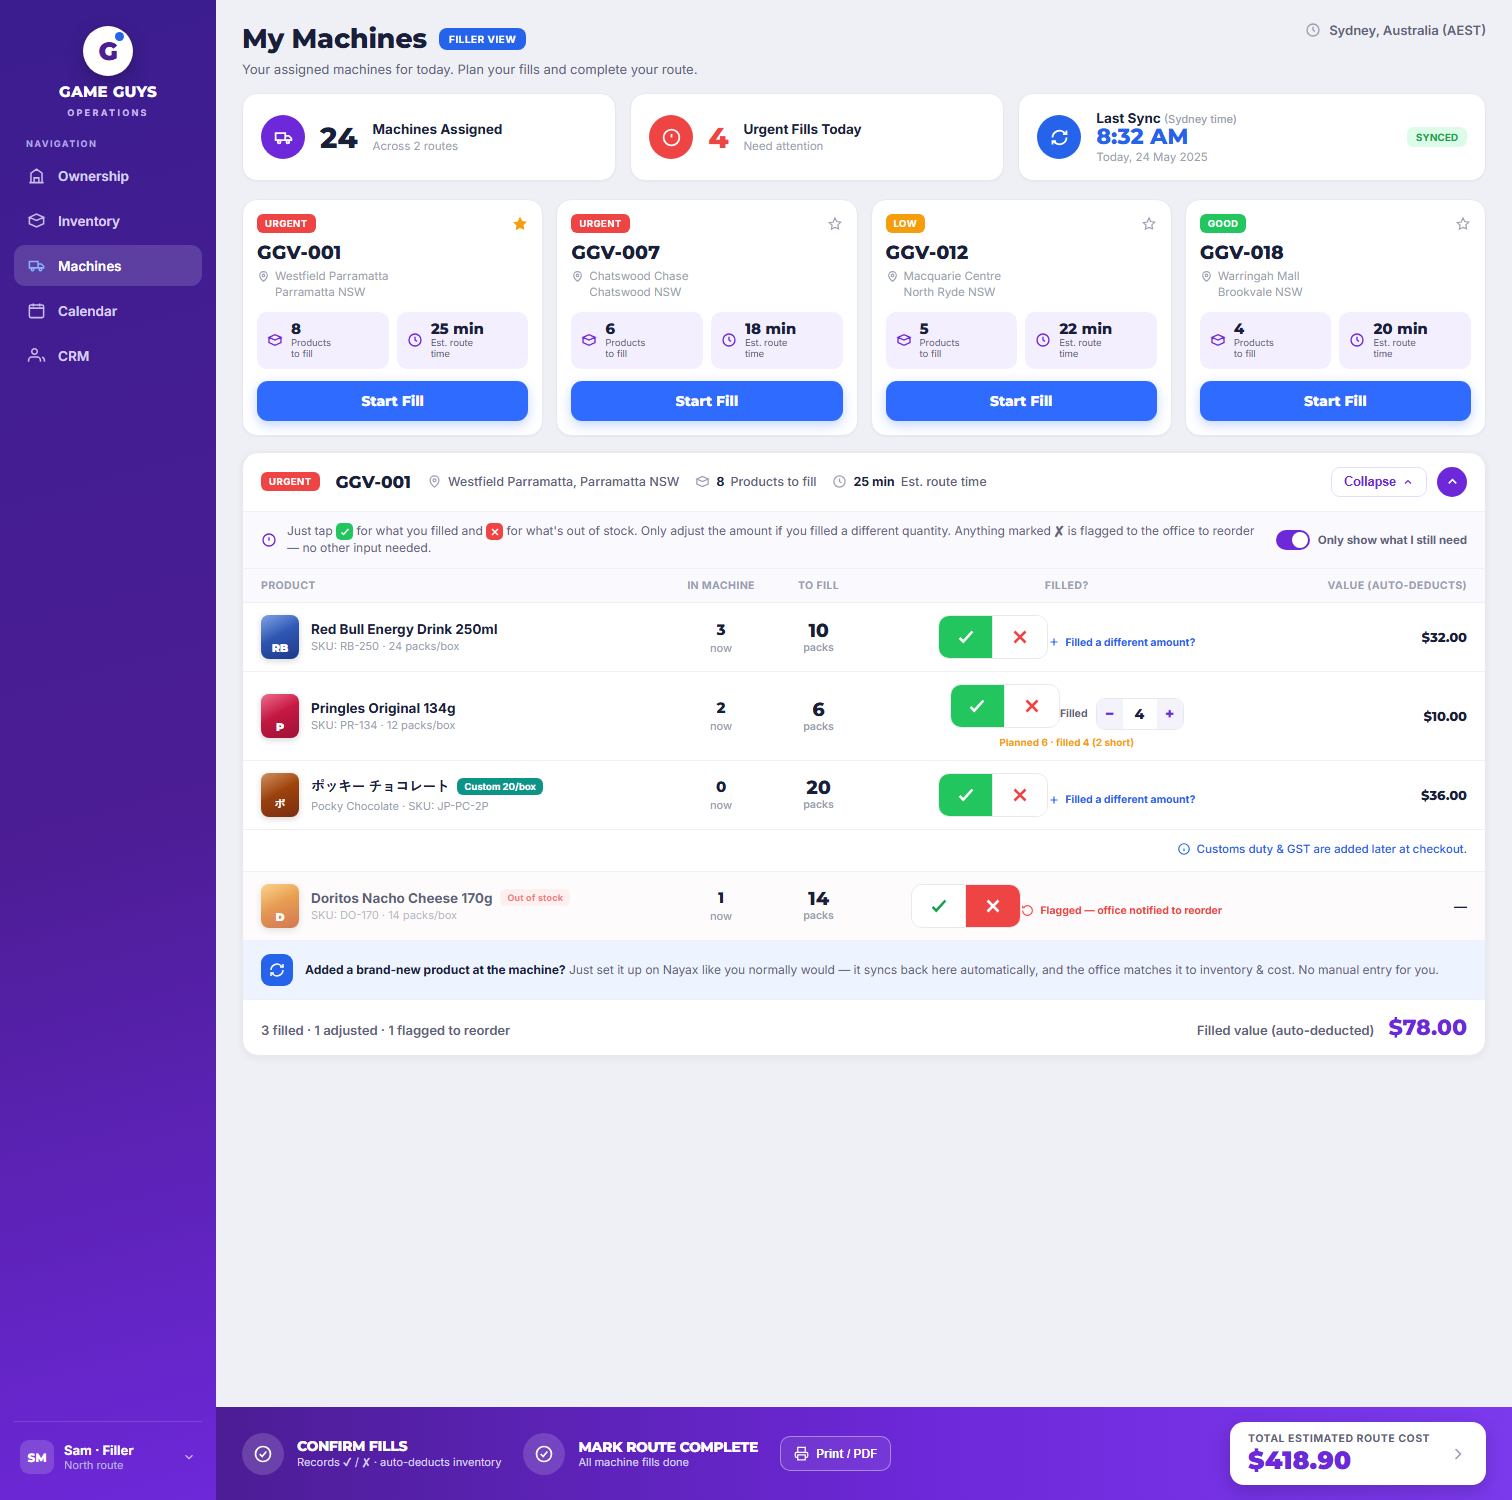
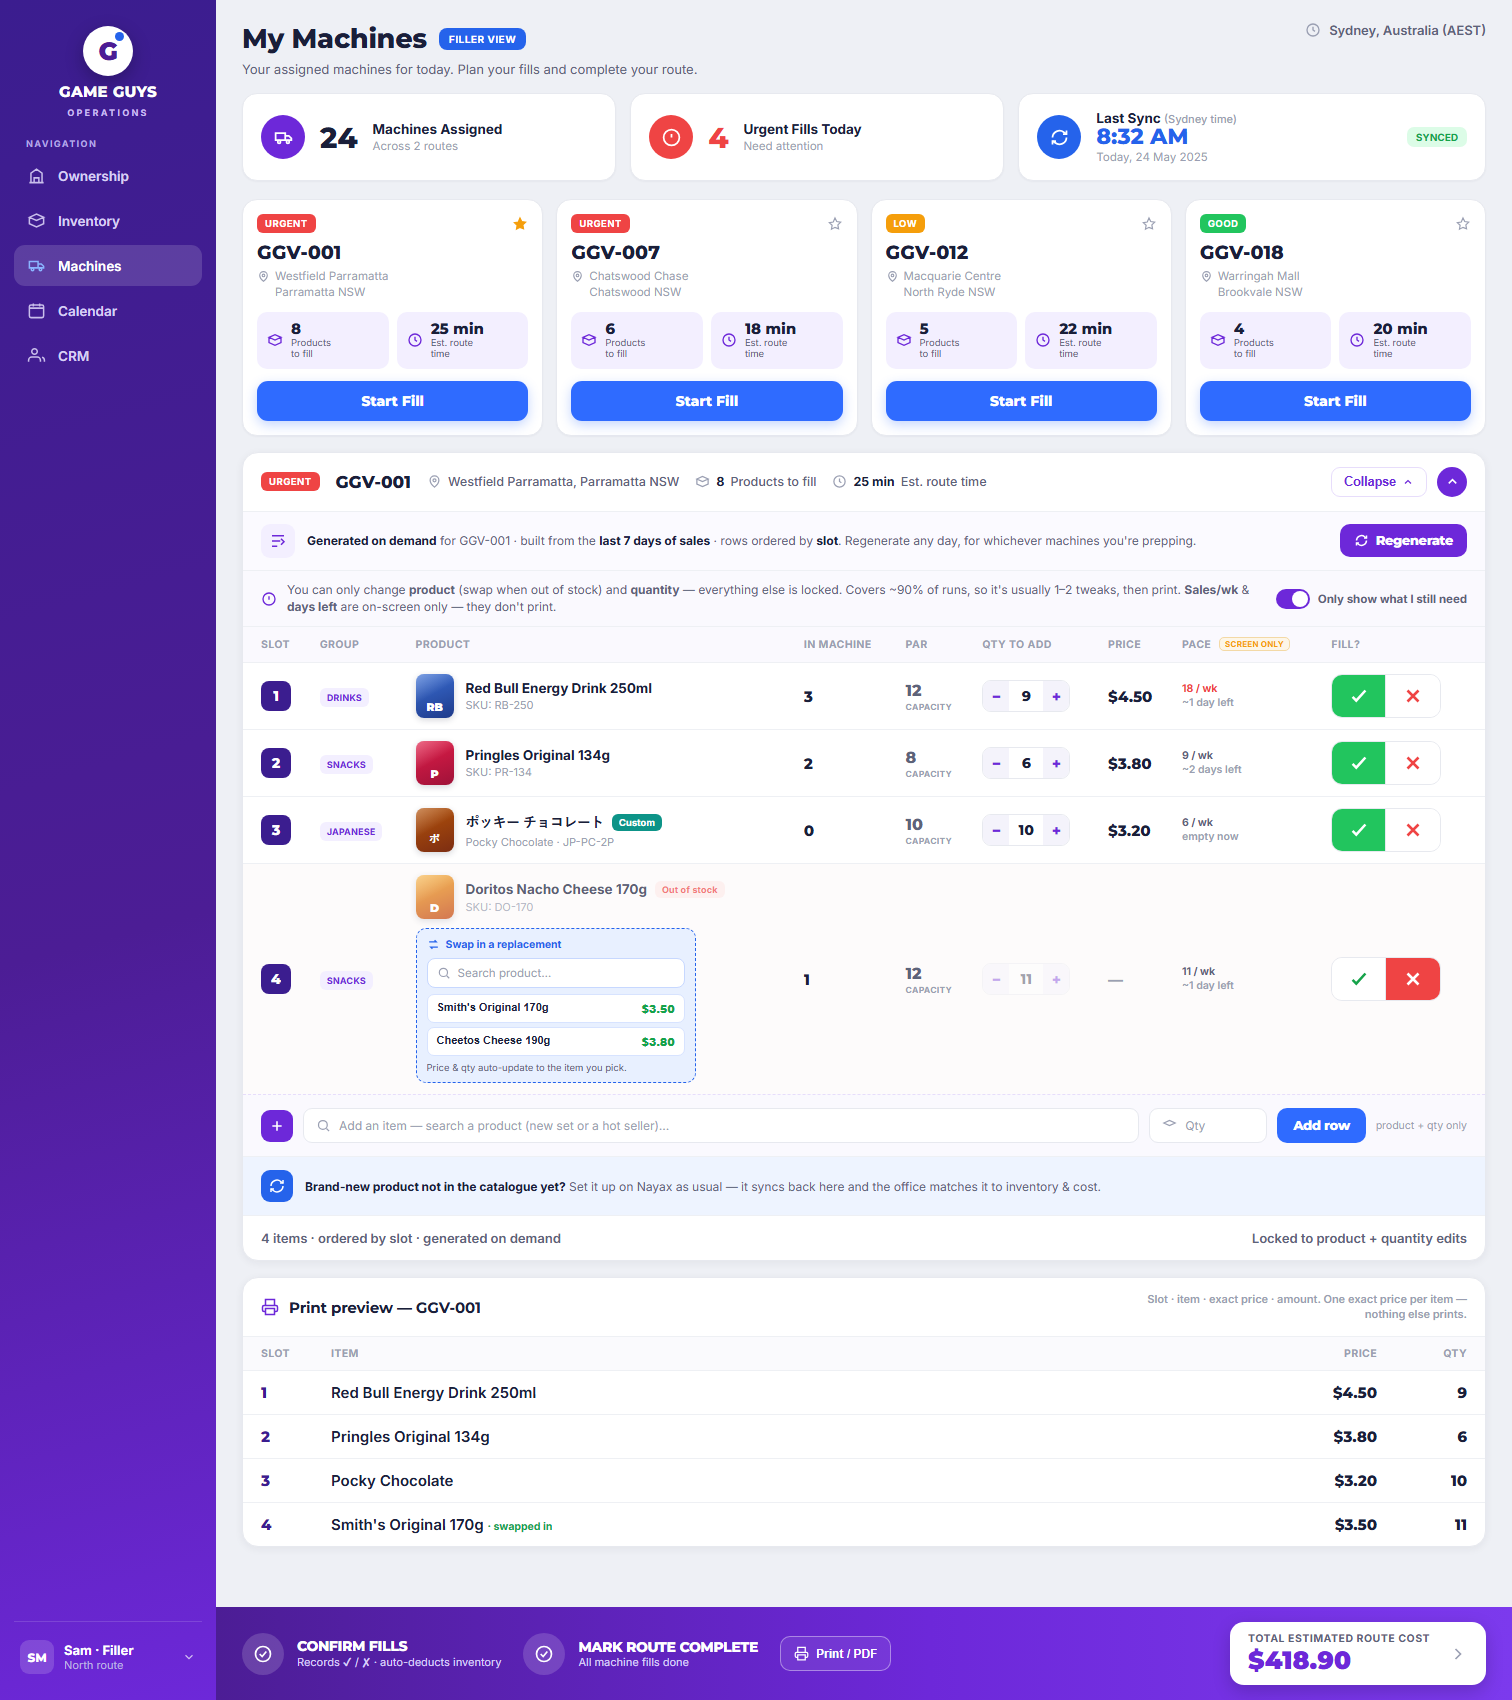
Rework filler pick list: on-demand generation, slot order, PAR/price/pace, swap + add-row, stripped printout; update build spec schema & flow

diff --git a/machines.html b/machines.html
@@ -163,6 +163,64 @@
   .nayaxnote .ic svg{width:18px;height:18px;stroke:#fff;fill:none;stroke-width:2}
   .nayaxnote .tx{font-size:12px;color:var(--fg2);line-height:1.45}
   .nayaxnote .tx b{color:var(--fg)}
+  /* generation bar */
+  .genbar{display:flex;align-items:center;gap:12px;padding:12px 18px;border-bottom:1px solid var(--line2);background:#fbfaff}
+  .genbar .gi{width:34px;height:34px;border-radius:9px;background:var(--purple-soft);display:flex;align-items:center;justify-content:center;flex:0 0 auto}
+  .genbar .gi svg{width:18px;height:18px;stroke:var(--purple);fill:none;stroke-width:2}
+  .genbar .gt{font-size:12px;color:var(--fg2);line-height:1.45}
+  .genbar .gt b{color:var(--fg)}
+  .genbar .regen{margin-left:auto;border:none;background:var(--purple);color:#fff;font-family:var(--display);font-weight:800;font-size:12.5px;padding:9px 14px;border-radius:10px;display:inline-flex;align-items:center;gap:7px;cursor:pointer;white-space:nowrap}
+  .genbar .regen svg{width:15px;height:15px;stroke:#fff;fill:none;stroke-width:2.4}
+  /* richer working table */
+  .dtable.work th,.dtable.work td{padding:11px 9px;text-align:left}
+  .dtable.work th:first-child,.dtable.work td:first-child{padding-left:18px}
+  .dtable.work th:last-child,.dtable.work td:last-child{padding-right:18px;text-align:left}
+  .dtable.work thead th{text-align:left}
+  .slot{width:30px;height:30px;border-radius:8px;background:var(--indigo);color:#fff;font-family:var(--display);font-weight:800;font-size:14px;display:inline-flex;align-items:center;justify-content:center}
+  .grp{font-size:9px;font-weight:800;letter-spacing:.02em;padding:4px 7px;border-radius:6px;background:var(--purple-soft);color:var(--purple);white-space:nowrap}
+  .par{font-family:var(--display);font-weight:800;font-size:16px;color:var(--fg2)}
+  .par .u{display:block;font-size:8.5px;color:var(--fg3);font-weight:700;font-family:var(--font);margin-top:2px;text-transform:uppercase;letter-spacing:.04em}
+  .price{font-family:var(--display);font-weight:800;font-size:15px}
+  .pace{font-size:10.5px;color:var(--fg3);line-height:1.4;font-weight:600}
+  .pace b{color:var(--fg2)}
+  .pace .hot{color:var(--red)}
+  .scrtag{font-size:8px;font-weight:800;letter-spacing:.03em;color:var(--amber);border:1px solid #f3d9a6;background:#fdf6e8;padding:1px 5px;border-radius:5px;margin-left:5px;text-transform:uppercase;vertical-align:1px}
+  .swapbox{margin-top:9px;border:1.5px dashed var(--blue);background:var(--blue-soft);border-radius:10px;padding:9px 10px;max-width:280px}
+  .swapbox .sh{font-size:10.5px;font-weight:800;color:var(--blue);display:flex;align-items:center;gap:6px;margin-bottom:7px}
+  .swapbox .sh svg{width:13px;height:13px;stroke:var(--blue);fill:none;stroke-width:2.4}
+  .swapfield{display:flex;align-items:center;gap:7px;background:#fff;border:1px solid #c7d8ff;border-radius:8px;padding:7px 9px;font-size:11.5px;color:var(--fg3)}
+  .swapfield svg{width:14px;height:14px;stroke:var(--fg3);fill:none;stroke-width:2}
+  .swopt{margin-top:6px;display:flex;flex-direction:column;gap:4px}
+  .swopt button{text-align:left;border:1px solid #d7e3ff;background:#fff;border-radius:7px;padding:6px 9px;font-size:11px;font-weight:600;color:var(--fg);cursor:pointer;display:flex;justify-content:space-between;gap:10px}
+  .swopt button b{color:var(--green-txt);font-weight:800}
+  .swapnote{font-size:9.5px;color:var(--fg2);margin-top:6px}
+  .addrow{display:flex;align-items:center;gap:10px;padding:13px 18px;border-top:1px dashed var(--purple-line);background:#faf9fe}
+  .addrow .plus{width:32px;height:32px;border-radius:9px;background:var(--purple);display:flex;align-items:center;justify-content:center;flex:0 0 auto}
+  .addrow .plus svg{width:16px;height:16px;stroke:#fff;stroke-width:2.4;fill:none}
+  .addrow .field{flex:1;border:1.5px solid var(--line);border-radius:9px;padding:9px 12px;font-size:12px;color:var(--fg3);background:#fff;display:flex;align-items:center;gap:8px}
+  .addrow .field svg{width:15px;height:15px;stroke:var(--fg3);fill:none;stroke-width:2;flex:0 0 auto}
+  .addrow .qtyf{flex:0 0 118px}
+  .addrow .addbtn2{border:none;background:var(--blue-btn);color:#fff;font-family:var(--display);font-weight:800;font-size:12.5px;padding:10px 16px;border-radius:10px;cursor:pointer;white-space:nowrap}
+  .addrow .hint{font-size:10.5px;color:var(--fg3);flex:0 0 auto}
+  /* print preview */
+  .printcard{background:#fff;border:1px solid var(--line);border-radius:16px;box-shadow:0 2px 8px rgba(26,31,57,.06);overflow:hidden;margin-top:16px}
+  .printcard .ph{display:flex;align-items:center;gap:10px;padding:14px 18px;border-bottom:1px solid var(--line2)}
+  .printcard .ph svg{width:18px;height:18px;stroke:var(--purple);fill:none;stroke-width:2;flex:0 0 auto}
+  .printcard .ph h3{font-size:15px}
+  .printcard .ph .note{font-size:11px;color:var(--fg3);margin-left:auto;font-weight:600;max-width:360px;text-align:right;line-height:1.35}
+  .ptable{width:100%;border-collapse:collapse}
+  .ptable th{font-size:10.5px;font-weight:800;letter-spacing:.04em;text-transform:uppercase;color:var(--fg3);padding:10px 18px;text-align:left;background:#fafafd}
+  .ptable th.r,.ptable td.r{text-align:right}
+  .ptable td{padding:12px 18px;border-top:1px solid var(--line2);font-size:15px}
+  .ptable .ps{font-family:var(--display);font-weight:800;color:var(--indigo)}
+  .ptable .pi{font-weight:600}
+  .ptable .pp,.ptable .pq{font-family:var(--display);font-weight:800}
+  @media print{
+    body *{visibility:hidden}
+    .printcard,.printcard *{visibility:visible}
+    .printcard{position:absolute;left:0;top:0;width:100%;box-shadow:none;border:none;margin:0}
+    .printcard .ph .note{display:none}
+  }
 </style>
 </head>
 <body>
@@ -210,24 +268,98 @@
           <span class="m"><svg viewBox="0 0 24 24"><circle cx="12" cy="12" r="9"/><path d="M12 7v5l3 2"/></svg> <b>25 min</b> Est. route time</span>
           <div class="right"><button class="collapse">Collapse <svg width="12" height="12" viewBox="0 0 24 24" fill="none" stroke="currentColor" stroke-width="2.4"><path d="M6 15l6-6 6 6"/></svg></button><div class="updot"><svg viewBox="0 0 24 24"><path d="M6 15l6-6 6 6"/></svg></div></div>
         </div>
+        <div class="genbar">
+          <div class="gi"><svg viewBox="0 0 24 24"><path d="M4 5h16M4 12h11M4 19h7"/><path d="M16 15l4 4-4 4" transform="translate(0 -6)"/></svg></div>
+          <div class="gt"><b>Generated on demand</b> for GGV-001 · built from the <b>last 7 days of sales</b> · rows ordered by <b>slot</b>. Regenerate any day, for whichever machines you're prepping.</div>
+          <button class="regen"><svg viewBox="0 0 24 24"><path d="M4 12a8 8 0 0 1 13-6l3 2M20 12a8 8 0 0 1-13 6l-3-2"/><path d="M20 4v4h-4M4 20v-4h4"/></svg> Regenerate</button>
+        </div>
         <div class="pltoolbar">
           <svg viewBox="0 0 24 24"><circle cx="12" cy="12" r="9"/><path d="M12 8v5M12 16h.01"/></svg>
-          <span>Just tap <span class="yeschip"><svg viewBox="0 0 24 24" fill="none"><path d="M5 13l4 4 10-11"/></svg></span> for what you filled and <span class="nochip"><svg viewBox="0 0 24 24" fill="none"><path d="M6 6l12 12M18 6L6 18"/></svg></span> for what's out of stock. Only adjust the amount if you filled a different quantity. Anything marked <b>✘</b> is flagged to the office to reorder — no other input needed.</span>
+          <span>You can only change <b>product</b> (swap when out of stock) and <b>quantity</b> — everything else is locked. Covers ~90% of runs, so it's usually 1–2 tweaks, then print. <b>Sales/wk</b> &amp; <b>days left</b> are on-screen only — they don't print.</span>
           <span class="sp"></span>
           <span class="toggle"><span class="sw"></span> Only show what I still need</span>
         </div>
-        <table class="dtable">
-          <thead><tr><th>Product</th><th>In machine</th><th>To fill</th><th>Filled?</th><th>Value (auto-deducts)</th></tr></thead>
+        <table class="dtable work">
+          <thead><tr><th>Slot</th><th>Group</th><th>Product</th><th>In machine</th><th>PAR</th><th>Qty to add</th><th>Price</th><th>Pace <span class="scrtag">screen only</span></th><th>Fill?</th></tr></thead>
           <tbody>
-            <tr><td><div class="prod"><div class="thumb2 th-rb">RB</div><div><div class="pname">Red Bull Energy Drink 250ml</div><div class="sku">SKU: RB-250 · 24 packs/box</div></div></div></td><td><div class="stk">3</div><div class="sub2">now</div></td><td><div class="needed">10<span class="u">packs</span></div></td><td><div class="checkx"><button class="yes on" title="Filled"><svg viewBox="0 0 24 24"><path d="M5 13l4 4 10-11"/></svg></button><button class="no" title="Out of stock"><svg viewBox="0 0 24 24"><path d="M6 6l12 12M18 6L6 18"/></svg></button></div><div class="adjust"><svg viewBox="0 0 24 24"><path d="M12 5v14M5 12h14"/></svg> Filled a different amount?</div></td><td class="money">$32.00</td></tr>
-            <tr><td><div class="prod"><div class="thumb2 th-pr">P</div><div><div class="pname">Pringles Original 134g</div><div class="sku">SKU: PR-134 · 12 packs/box</div></div></div></td><td><div class="stk">2</div><div class="sub2">now</div></td><td><div class="needed">6<span class="u">packs</span></div></td><td><div class="checkx"><button class="yes on" title="Filled"><svg viewBox="0 0 24 24"><path d="M5 13l4 4 10-11"/></svg></button><button class="no" title="Out of stock"><svg viewBox="0 0 24 24"><path d="M6 6l12 12M18 6L6 18"/></svg></button></div><div class="adjrow"><span class="lbl">Filled</span><div class="stepper"><button>−</button><span class="val">4</span><button>+</button></div></div><div class="warn">Planned 6 · filled 4 (2 short)</div></td><td class="money">$10.00</td></tr>
-            <tr><td><div class="prod"><div class="thumb2 th-pk">ポ</div><div><div class="pname">ポッキー チョコレート <span class="custom">Custom 20/box</span></div><div class="sku">Pocky Chocolate · SKU: JP-PC-2P</div></div></div></td><td><div class="stk">0</div><div class="sub2">now</div></td><td><div class="needed">20<span class="u">packs</span></div></td><td><div class="checkx"><button class="yes on" title="Filled"><svg viewBox="0 0 24 24"><path d="M5 13l4 4 10-11"/></svg></button><button class="no" title="Out of stock"><svg viewBox="0 0 24 24"><path d="M6 6l12 12M18 6L6 18"/></svg></button></div><div class="adjust"><svg viewBox="0 0 24 24"><path d="M12 5v14M5 12h14"/></svg> Filled a different amount?</div></td><td class="money">$36.00</td></tr>
-            <tr><td colspan="5" class="cnote"><span><svg width="14" height="14" viewBox="0 0 24 24" fill="none" stroke="#2563eb" stroke-width="2"><circle cx="12" cy="12" r="9"/><path d="M12 11v5M12 8h.01"/></svg> Customs duty &amp; GST are added later at checkout.</span></td></tr>
-            <tr class="rowout"><td><div class="prod"><div class="thumb2 th-do">D</div><div><div class="pname">Doritos Nacho Cheese 170g <span class="pin pin-out">Out of stock</span></div><div class="sku">SKU: DO-170 · 14 packs/box</div></div></div></td><td><div class="stk">1</div><div class="sub2">now</div></td><td><div class="needed">14<span class="u">packs</span></div></td><td><div class="checkx"><button class="yes" title="Filled"><svg viewBox="0 0 24 24"><path d="M5 13l4 4 10-11"/></svg></button><button class="no on" title="Out of stock"><svg viewBox="0 0 24 24"><path d="M6 6l12 12M18 6L6 18"/></svg></button></div><div class="reorder"><svg viewBox="0 0 24 24"><path d="M3 12a9 9 0 1 0 9-9 9 9 0 0 0-6.7 3M3 3v4h4"/></svg> Flagged — office notified to reorder</div></td><td class="money">—</td></tr>
+            <tr>
+              <td><span class="slot">1</span></td>
+              <td><span class="grp">DRINKS</span></td>
+              <td><div class="prod"><div class="thumb2 th-rb">RB</div><div><div class="pname">Red Bull Energy Drink 250ml</div><div class="sku">SKU: RB-250</div></div></div></td>
+              <td><div class="stk">3</div></td>
+              <td><div class="par">12<span class="u">capacity</span></div></td>
+              <td><div class="stepper"><button>−</button><span class="val">9</span><button>+</button></div></td>
+              <td><div class="price">$4.50</div></td>
+              <td><div class="pace"><b class="hot">18 / wk</b><br>~1 day left</div></td>
+              <td><div class="checkx"><button class="yes on" title="Filled"><svg viewBox="0 0 24 24" fill="none"><path d="M5 13l4 4 10-11"/></svg></button><button class="no" title="Out of stock"><svg viewBox="0 0 24 24" fill="none"><path d="M6 6l12 12M18 6L6 18"/></svg></button></div></td>
+            </tr>
+            <tr>
+              <td><span class="slot">2</span></td>
+              <td><span class="grp">SNACKS</span></td>
+              <td><div class="prod"><div class="thumb2 th-pr">P</div><div><div class="pname">Pringles Original 134g</div><div class="sku">SKU: PR-134</div></div></div></td>
+              <td><div class="stk">2</div></td>
+              <td><div class="par">8<span class="u">capacity</span></div></td>
+              <td><div class="stepper"><button>−</button><span class="val">6</span><button>+</button></div></td>
+              <td><div class="price">$3.80</div></td>
+              <td><div class="pace"><b>9 / wk</b><br>~2 days left</div></td>
+              <td><div class="checkx"><button class="yes on" title="Filled"><svg viewBox="0 0 24 24" fill="none"><path d="M5 13l4 4 10-11"/></svg></button><button class="no" title="Out of stock"><svg viewBox="0 0 24 24" fill="none"><path d="M6 6l12 12M18 6L6 18"/></svg></button></div></td>
+            </tr>
+            <tr>
+              <td><span class="slot">3</span></td>
+              <td><span class="grp">JAPANESE</span></td>
+              <td><div class="prod"><div class="thumb2 th-pk">ポ</div><div><div class="pname">ポッキー チョコレート <span class="custom">Custom</span></div><div class="sku">Pocky Chocolate · JP-PC-2P</div></div></div></td>
+              <td><div class="stk">0</div></td>
+              <td><div class="par">10<span class="u">capacity</span></div></td>
+              <td><div class="stepper"><button>−</button><span class="val">10</span><button>+</button></div></td>
+              <td><div class="price">$3.20</div></td>
+              <td><div class="pace"><b>6 / wk</b><br>empty now</div></td>
+              <td><div class="checkx"><button class="yes on" title="Filled"><svg viewBox="0 0 24 24" fill="none"><path d="M5 13l4 4 10-11"/></svg></button><button class="no" title="Out of stock"><svg viewBox="0 0 24 24" fill="none"><path d="M6 6l12 12M18 6L6 18"/></svg></button></div></td>
+            </tr>
+            <tr class="rowout">
+              <td><span class="slot">4</span></td>
+              <td><span class="grp">SNACKS</span></td>
+              <td>
+                <div class="prod"><div class="thumb2 th-do">D</div><div><div class="pname">Doritos Nacho Cheese 170g <span class="pin pin-out">Out of stock</span></div><div class="sku">SKU: DO-170</div></div></div>
+                <div class="swapbox">
+                  <div class="sh"><svg viewBox="0 0 24 24"><path d="M4 7h13l-3-3M20 17H7l3 3"/></svg> Swap in a replacement</div>
+                  <div class="swapfield"><svg viewBox="0 0 24 24"><circle cx="11" cy="11" r="7"/><path d="M21 21l-4.3-4.3"/></svg> Search product…</div>
+                  <div class="swopt">
+                    <button>Smith's Original 170g <b>$3.50</b></button>
+                    <button>Cheetos Cheese 190g <b>$3.80</b></button>
+                  </div>
+                  <div class="swapnote">Price &amp; qty auto-update to the item you pick.</div>
+                </div>
+              </td>
+              <td><div class="stk">1</div></td>
+              <td><div class="par">12<span class="u">capacity</span></div></td>
+              <td><div class="stepper" style="opacity:.4"><button>−</button><span class="val">11</span><button>+</button></div></td>
+              <td><div class="price" style="color:var(--fg3)">—</div></td>
+              <td><div class="pace"><b>11 / wk</b><br>~1 day left</div></td>
+              <td><div class="checkx"><button class="yes" title="Filled"><svg viewBox="0 0 24 24" fill="none"><path d="M5 13l4 4 10-11"/></svg></button><button class="no on" title="Out of stock"><svg viewBox="0 0 24 24" fill="none"><path d="M6 6l12 12M18 6L6 18"/></svg></button></div></td>
+            </tr>
           </tbody>
         </table>
-        <div class="nayaxnote"><div class="ic"><svg viewBox="0 0 24 24"><path d="M4 12a8 8 0 0 1 13-6l3 2M20 12a8 8 0 0 1-13 6l-3-2"/><path d="M20 4v4h-4M4 20v-4h4"/></svg></div><div class="tx"><b>Added a brand-new product at the machine?</b> Just set it up on Nayax like you normally would — it syncs back here automatically, and the office matches it to inventory &amp; cost. No manual entry for you.</div></div>
-        <div class="dfoot"><span class="l" style="margin-right:auto">3 filled · 1 adjusted · 1 flagged to reorder</span><span class="l">Filled value (auto-deducted)</span><span class="v">$78.00</span></div>
+        <div class="addrow">
+          <div class="plus"><svg viewBox="0 0 24 24"><path d="M12 5v14M5 12h14"/></svg></div>
+          <div class="field"><svg viewBox="0 0 24 24"><circle cx="11" cy="11" r="7"/><path d="M21 21l-4.3-4.3"/></svg> Add an item — search a product (new set or a hot seller)…</div>
+          <div class="field qtyf"><svg viewBox="0 0 24 24"><path d="M3 8l9-4 9 4-9 4-9-4z"/></svg> Qty</div>
+          <button class="addbtn2">Add row</button>
+          <span class="hint">product + qty only</span>
+        </div>
+        <div class="nayaxnote"><div class="ic"><svg viewBox="0 0 24 24"><path d="M4 12a8 8 0 0 1 13-6l3 2M20 12a8 8 0 0 1-13 6l-3-2"/><path d="M20 4v4h-4M4 20v-4h4"/></svg></div><div class="tx"><b>Brand-new product not in the catalogue yet?</b> Set it up on Nayax as usual — it syncs back here and the office matches it to inventory &amp; cost.</div></div>
+        <div class="dfoot"><span class="l" style="margin-right:auto">4 items · ordered by slot · generated on demand</span><span class="l">Locked to product + quantity edits</span></div>
+      </div>
+      <div class="printcard">
+        <div class="ph"><svg viewBox="0 0 24 24"><path d="M6 9V2h12v7M6 18H4a2 2 0 0 1-2-2v-4a2 2 0 0 1 2-2h16a2 2 0 0 1 2 2v4a2 2 0 0 1-2 2h-2M6 14h12v8H6z"/></svg><h3>Print preview — GGV-001</h3><span class="note">Slot · item · exact price · amount. One exact price per item — nothing else prints.</span></div>
+        <table class="ptable">
+          <thead><tr><th style="width:70px">Slot</th><th>Item</th><th class="r" style="width:120px">Price</th><th class="r" style="width:90px">Qty</th></tr></thead>
+          <tbody>
+            <tr><td class="ps">1</td><td class="pi">Red Bull Energy Drink 250ml</td><td class="r pp">$4.50</td><td class="r pq">9</td></tr>
+            <tr><td class="ps">2</td><td class="pi">Pringles Original 134g</td><td class="r pp">$3.80</td><td class="r pq">6</td></tr>
+            <tr><td class="ps">3</td><td class="pi">Pocky Chocolate</td><td class="r pp">$3.20</td><td class="r pq">10</td></tr>
+            <tr><td class="ps">4</td><td class="pi">Smith's Original 170g <span style="font-size:10.5px;color:var(--green-txt);font-weight:700">· swapped in</span></td><td class="r pp">$3.50</td><td class="r pq">11</td></tr>
+          </tbody>
+        </table>
       </div>
     </div>
 

diff --git a/BUILD-PLAN.md b/BUILD-PLAN.md
@@ -84,8 +84,20 @@ Curated business view. **Surface Xero data, don't rebuild the P&L.**
 ### 2.3 Machines (filler) — see §3.1 for the flow
 - KPIs: machines assigned, urgent fills, last Nayax sync.
 - Machine cards (status: urgent/low/good, favourite, location, products-to-fill, est. time).
-- **Flexible pick list** (the important part): warehouse-aware, editable, handles out-of-stock.
-- Bottom bar: Sync to Nayax · Mark route complete · Print/PDF (bad reception) · total est. cost.
+- **Pick list** (the important part) — see §3.1a for full behaviour. Summary:
+  - **Generated on demand** — the picker hits *Regenerate* any day for whichever machine/route
+    they're prepping (not on a fixed schedule). Built from the **last 7 days of sales** per location,
+    showing how much is missing per row.
+  - **Working view rows are ordered by SLOT number ascending** (1,2,3…), *not* by urgency.
+  - **Columns:** slot · product group · product name · current qty in machine · **PAR (capacity/size,
+    shown beside the qty)** · qty to add · **price (exact, single value)** · pace *(sales/wk + days-left,
+    on-screen only — must NOT print)*.
+  - **Editing is restricted to product + quantity only** (≈90% of runs need 0–2 changes):
+    - Out-of-stock → **swap** a replacement via search/dropdown; the new **price and qty auto-update**.
+    - **Add an extra row** (a new set or a hot seller) not on the generated list — product + qty only.
+    - Qty is an inline stepper (manual override); everything else is locked.
+- **Printout** — see §3.1b. Stripped to **slot · item · exact price · amount** and nothing else.
+- Bottom bar: Confirm fills · Mark route complete · Print/PDF (bad reception) · total est. cost.
 
 ### 2.4 Calendar (all)
 Release calendar grouped by month: product, set code, language, preorder status. "Action needed"
@@ -101,22 +113,21 @@ list for releases without secured stock. (Feature already exists — just reloca
 
 ## 3. Core flows
 
-### 3.1 Filler fill workflow (with flexible pick list)
+### 3.1 Filler fill workflow (on-demand pick list)
 
 ```mermaid
 flowchart TD
   A[Filler opens Machines tab] --> B[Sees ONLY assigned machines]
-  B --> C[Tap 'Start Fill' on a machine]
-  C --> D[Suggested pick list loads<br/>from Nayax low-stock + par levels]
-  D --> E{Enough warehouse stock per line?}
-  E -- Yes --> F[Keep suggested qty]
-  E -- Partial --> G[Qty auto-capped to available<br/>show 'wanted X, capped to Y']
-  E -- Out of stock --> H[Flag: Skip / Substitute / Notify office<br/>line excluded from cost]
-  F --> I[Filler edits quantities with +/- stepper]
-  G --> I
-  H --> I
-  I --> J[Optionally add an ad-hoc product not on the list]
-  J --> K[Print / PDF snapshot for poor reception]
+  B --> C[Picks machine/route + hits Generate/Regenerate<br/>any day, on demand]
+  C --> D[Pick list built from last 7 days of sales<br/>qty to add = PAR − current in machine]
+  D --> E[Rows ordered by SLOT number ascending]
+  E --> F{Per line}
+  F -- In stock --> G[Keep or adjust qty with +/- stepper]
+  F -- Out of stock --> H[Swap a replacement via search<br/>price + qty auto-update to new item]
+  F -- Extra needed --> J[Add a row: new set / hot seller<br/>product + qty only]
+  G --> K[Print / PDF: slot · item · exact price · amount]
+  H --> K
+  J --> K
   K --> L[Physically fill machine + set prices on Nayax]
   L --> M[Mark route complete]
   M --> N[App inserts picklist_final_rows]
@@ -124,8 +135,24 @@ flowchart TD
   O --> P[/reconciliation compares planned fill vs Nayax sales/]
 ```
 
-**Pick list UI states (per line):** `in_stock` (green) · `partial` (amber, qty capped) ·
-`out_of_stock` (red, disabled qty + Skip/Substitute/Notify).
+#### 3.1a Working view rules
+- **Generation:** on demand (Regenerate button), per machine/route, any day. Source = last 7 days of
+  sales per location; `qty_to_add = PAR − current_in_machine` (never negative).
+- **Ordering:** by `slot_number` ascending — the physical layout order, not urgency.
+- **Columns:** slot · group · product · current-in-machine · **PAR (beside qty)** · qty-to-add ·
+  **exact price** · pace *(sales/wk + days-of-cover — screen-only, excluded from print)*.
+- **Allowed edits (product + qty ONLY):**
+  - **Swap** (out of stock): pick a replacement SKU → its **price and qty populate automatically**.
+  - **Add row**: search a SKU (new set / hot seller) + qty. No other columns editable.
+  - **Qty override**: inline stepper per row.
+- Everything else (slot, group, price source, PAR) is **locked** — target ≈90% zero/low-touch runs.
+
+#### 3.1b Printout rules
+- Print/PDF contains **only 4 columns: slot · item name · exact price · amount.**
+- **Exactly one price per item** (no ranges) — the filler just keys it into Nayax and moves on.
+- Swaps/added rows/qty overrides flow through to the printout; on-screen-only fields (pace,
+  group chips, status) are stripped. Implement with a print stylesheet or a dedicated print view.
+
 **Rule:** the hub does NOT deduct stock itself — deduction happens only at "Mark route complete"
 through the existing `picklist_final_rows` path (see Golden Rule #3).
 
@@ -192,18 +219,61 @@ flowchart LR
 - Xero, Shopify, Nayax sync tables; supplier + task tables
 
 **Likely additions for this plan:**
-- Par-level / suggested-fill config per machine+product (drives the suggested pick list).
-- Selling price per SKU (mirrored from Nayax) + unit cost (from PO) → powers **Machine Value**.
-- Machine-value snapshot/materialised view (or computed on read) for fast portfolio totals.
-- Out-of-stock flag / substitution note captured at fill time (so the office sees reorder needs).
+- **Machine planogram / par config** — `machine_slots(machine_id, slot_number, product_id, par_qty)`.
+  Drives slot ordering, PAR (capacity), and `qty_to_add = par_qty − current_in_machine`.
+- **Selling price per SKU** (mirrored from Nayax) + **unit cost** (from PO) → powers price column + Machine Value.
+- **Sales velocity** per machine+SKU (last-7-day units → `sales_per_week`, `days_of_cover`) — screen-only pace.
+- **Pick list generation** — `picklists(id, machine_id, generated_by, generated_at, source='last_7d_sales')`
+  and `picklist_rows(picklist_id, slot_number, product_id, current_qty, par_qty, qty_to_add,
+  unit_price, row_type ∈ {generated, swapped, added}, swapped_from_product_id, edited_qty)`.
+  This is the *editable working draft*; on "Mark route complete" it feeds the existing
+  `picklist_final_rows` (do NOT add a second deduct path — Golden Rule #3).
+- Price snapshot stored on each row at print time so the printout shows one exact price.
+
+**Pick-list schema sketch:**
+
+```sql
+create table machine_slots (          -- planogram: what sits where + capacity
+  machine_id   uuid references machines(id),
+  slot_number  int,                   -- ordering + printed slot
+  product_id   uuid references products(id),
+  par_qty      int,                   -- capacity / target level
+  primary key (machine_id, slot_number)
+);
+
+create table picklists (              -- one on-demand generation
+  id           uuid primary key default gen_random_uuid(),
+  machine_id   uuid references machines(id),
+  generated_by uuid references users(id),
+  generated_at timestamptz default now(),
+  source       text default 'last_7d_sales'
+);
+
+create table picklist_rows (          -- editable working draft (product + qty only)
+  id                     uuid primary key default gen_random_uuid(),
+  picklist_id            uuid references picklists(id) on delete cascade,
+  slot_number            int,                       -- order asc for both view + print
+  product_id             uuid references products(id),
+  current_qty            int,                        -- in machine now
+  par_qty                int,                        -- PAR / capacity
+  qty_to_add             int,                        -- default par−current, editable stepper
+  unit_price             numeric,                    -- exact single price (mirrored from Nayax)
+  sales_per_week         numeric,                    -- pace: screen-only, not printed
+  days_of_cover          numeric,                    -- pace: screen-only, not printed
+  row_type               text default 'generated',   -- generated | swapped | added
+  swapped_from_product_id uuid references products(id)
+);
+```
 
 ---
 
 ## 5. Build phases
 
 1. **Navigation reshape** — 5 tabs + sub-tabs; role-based default landing + visibility. Low risk.
-2. **Flexible pick list** — warehouse-aware quantities, out-of-stock flags, ad-hoc add, print.
-   Reuse existing final-upload/deduct path; add UI + par levels. Do not add a second deduct.
+2. **On-demand pick list** — Regenerate button (last-7-day sales); slot-ordered rows; group/PAR/price/pace
+   columns; swap-on-out-of-stock (auto price+qty); add-row (product+qty only); stripped 4-column printout
+   (slot·item·price·qty). Needs `machine_slots` par/planogram + `picklists`/`picklist_rows`.
+   Reuse existing final-upload/deduct path — do NOT add a second deduct.
 3. **Machine Value** — join qty × (cost, selling price); recompute on sale-pull + restock; Ownership sub-tab.
 4. **Inventory polish** — surface incoming + AI PDF reader on PO form; scope AI camera (identity/barcode).
 5. **CRM/Calendar** — relocate existing supplier + task + release-calendar features under new tabs.
@@ -217,3 +287,5 @@ flowchart LR
 - Nayax pricing is authoritative; the app displays/pulls, it does not push prices as truth.
 - No supplier credentials stored — contact details only.
 - Keep owner financials curated (surface Xero essentials, not a full accounting rebuild).
+- Pick list is **slot-ordered**, **generated on demand**, and **edit-locked to product + quantity**.
+- Printout is **slot · item · exact price · amount only** — one price per item, no on-screen-only fields.